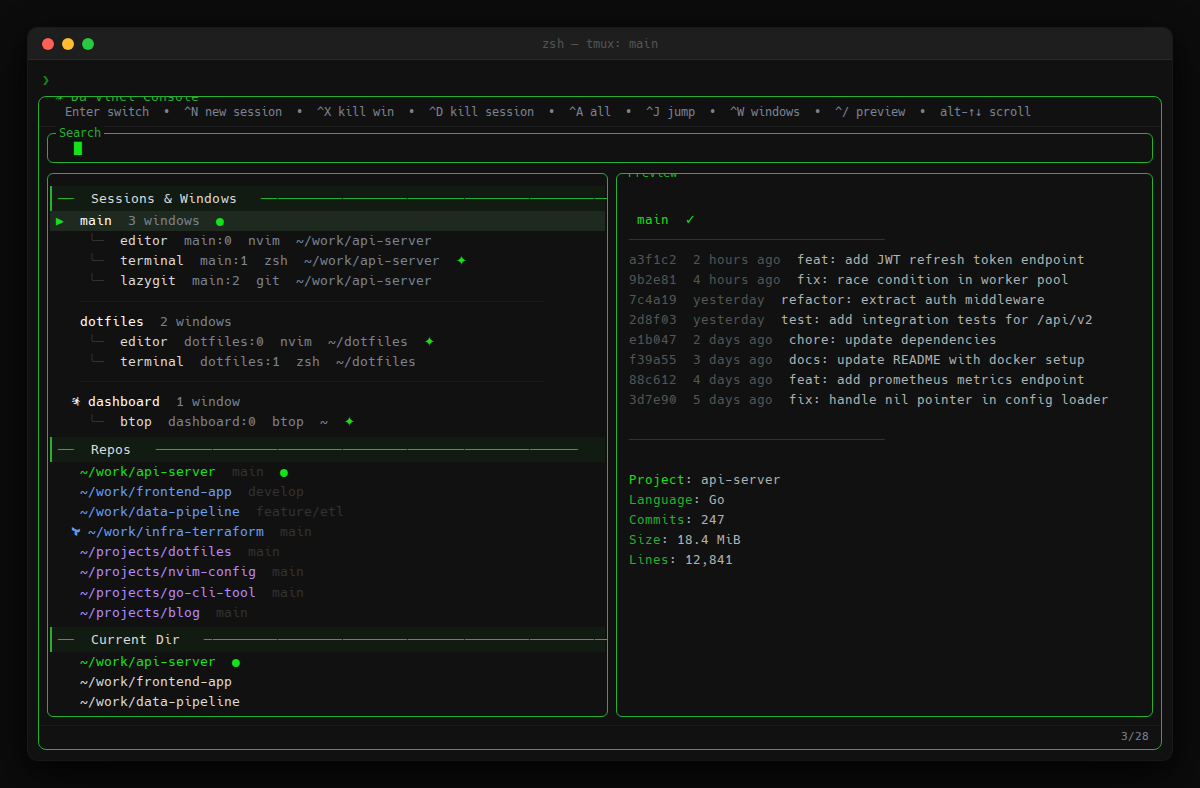
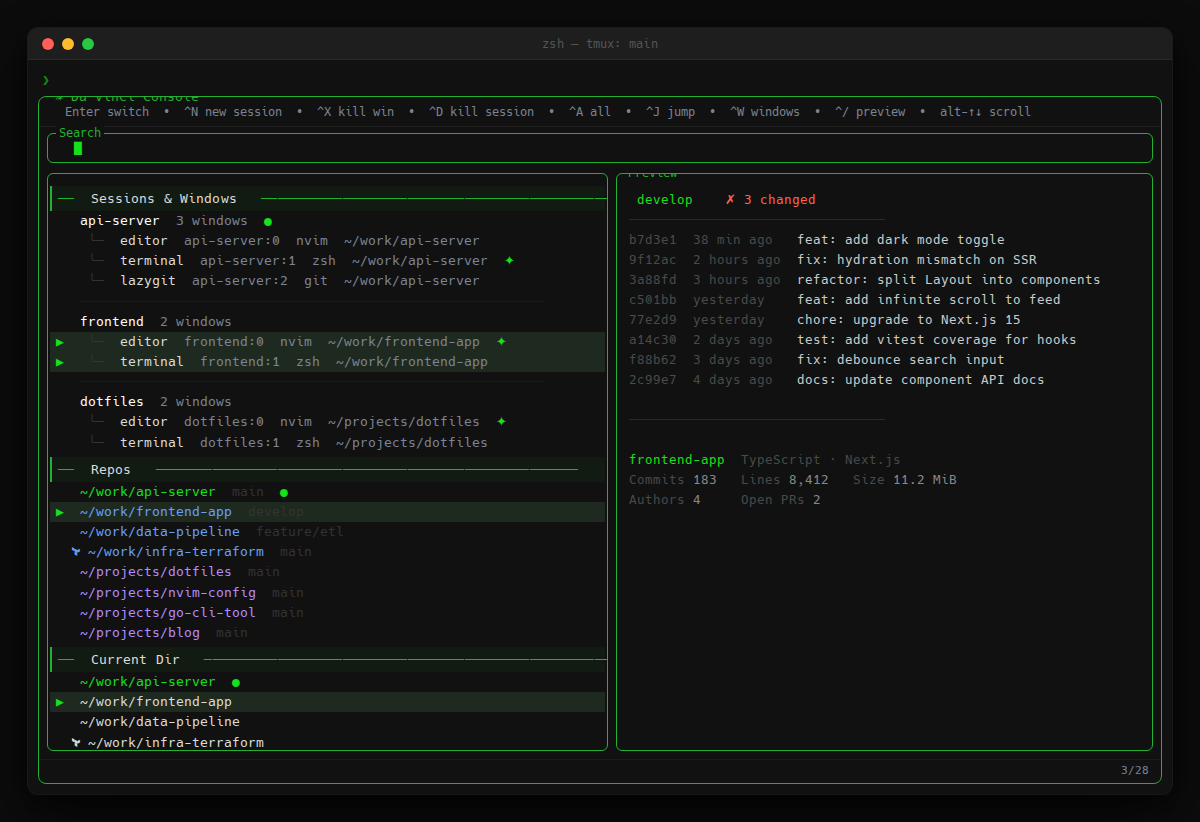
docs: overhaul README and refresh screenshot
- Remove undocumented DVC_COLOR_* theming vars (not implemented in script)
- Clarify auto-scan exclusions, SESH_WORK_DIRS fish syntax, icon_for notes
- Tighten prose throughout
- Screenshot: terminal chrome, frontend-app selected row, dirty branch
  preview with onefetch-style stats panel

diff --git a/README.md b/README.md
@@ -1,6 +1,6 @@
 #  Da Vinci Console
 
-A tmux session + window picker built on [sesh](https://github.com/joshmedeski/sesh) and [fzf](https://github.com/junegunn/fzf) — three sections in one view: live sessions & windows, auto-discovered git repos, and current directory. Git previews, smart dedup, language icons, and one-key project jumping.
+A tmux session + window picker built on [sesh](https://github.com/joshmedeski/sesh) and [fzf](https://github.com/junegunn/fzf) — three sections in one unified view: live sessions & windows, auto-discovered git repos, and current directory. No mode switching, no extra keybinds — just one popup that shows everything.
 
 ![Da Vinci Console screenshot](assets/screenshot.png)
 
@@ -8,20 +8,20 @@ A tmux session + window picker built on [sesh](https://github.com/joshmedeski/se
 
 ## Features
 
-- **Three-section unified view** — Sessions & Windows, Repos, and Current Dir all visible at once, no mode switching needed
-- **Auto-discovered repos** — scans `~/` for git repos automatically; pin specific dirs via `SESH_REPO_DIRS`
+- **Three-section unified view** — Sessions & Windows, Repos, and Current Dir all visible at once
+- **Auto-discovered repos** — scans `~/` up to 3 levels deep for git repos automatically; pin specific dirs via `SESH_REPO_DIRS`
 - **Git branch inline** — current branch shown next to every repo entry
 - **Language icons** — detects Rust, Node, Go, Python, PHP, Java, Ruby, C++ by manifest file
 - **Color-coded repos** — work dirs (blue) vs personal dirs (purple), configurable via `SESH_WORK_DIRS`
-- **Smart dedup** — repos already open as sessions show `●` in green and switch directly to the existing session
-- **Git preview** — branch, dirty status, last 8 commits, and onefetch stats in the preview pane
-- **Live pane previews** — see the last 20 lines of any session or window without switching
-- **`Ctrl-N` new session** — create a named tmux session at any repo path and jump straight to it
+- **Smart dedup** — repos already open as sessions show `●` in green and switch directly to the existing session instead of opening a duplicate
+- **Git preview** — branch, dirty status, last 8 commits, and optional onefetch stats in the preview pane
+- **Live pane previews** — see the last 20 lines of any active session or window without switching to it
+- **`Ctrl-N` new session** — create a named tmux session at the selected repo path and jump straight to it
 - **`Ctrl-X` kill window** — kill individual windows without leaving the picker
 - **`Ctrl-D` kill session** — delete sessions on the fly
 - **Jump mode** (`Ctrl-J`) — sesh configured dirs + zoxide frecency, split into labelled sections
 - **Windows view** (`Ctrl-W`) — all windows across all sessions grouped by session
-- **Shell-aware installer** — detects bash/zsh/fish and shows the right config syntax
+- **Shell-aware installer** — detects bash/zsh/fish and shows the right config snippet
 - **Nerd Font icons** — matched by session name, window name, and running command
 
 ---
@@ -38,7 +38,7 @@ A tmux session + window picker built on [sesh](https://github.com/joshmedeski/se
 
 **Optional:** [onefetch](https://github.com/o2sh/onefetch) — adds rich repo stats to the git preview pane.
 
-> **fzf 0.58+ is required.** The bordered input/list/preview panel labels were introduced in that release. Earlier versions will error.
+> **fzf 0.58+ is required.** Bordered input/list/preview panel labels were introduced in that release. Earlier versions will error.
 
 ---
 
@@ -50,7 +50,7 @@ cd Da_Vinci_Console
 ./install.sh
 ```
 
-The installer detects your shell (bash/zsh/fish), shows the correct tmux bind snippet, and checks all dependencies.
+The installer copies `da-vinci-console.sh` to `~/.config/tmux/sesh_picker.sh`, detects your shell (bash/zsh/fish), shows the correct env snippet, and checks all dependencies.
 
 ---
 
@@ -88,9 +88,9 @@ Or see [`extras/tmux.conf`](extras/tmux.conf) for the full snippet. Invoke with 
 
 ### Repo directories
 
-Without any config, the picker auto-scans `~/` up to 3 levels deep for git repos, skipping hidden dirs, `node_modules`, `.venv`, `vendor`, `target`, etc.
+Without any config the picker auto-scans `~/` up to 3 levels deep for git repos, skipping hidden dirs, `node_modules`, `.venv`, `vendor`, `target`, `__pycache__`, `dist`, and `build`.
 
-To pin specific directories (faster, explicit):
+To pin specific directories (faster, more explicit):
 
 ```bash
 # bash / zsh — add to ~/.bashrc or ~/.zshrc
@@ -100,56 +100,38 @@ export SESH_REPO_DIRS="~/DEVELOPMENT:~/work:~/personal"
 set -gx SESH_REPO_DIRS "$HOME/DEVELOPMENT:$HOME/work:$HOME/personal"
 ```
 
+Multiple paths are colon-separated. Tilde is expanded automatically.
+
 ### Work vs personal colour
 
-Repos under work dirs render in blue; everything else in purple. Default work dir is `~/DEVELOPMENT`.
+Repos found under work dirs render in **blue**; everything else renders in **purple**. The default work dir is `~/DEVELOPMENT`.
 
 ```bash
+# bash / zsh
 export SESH_WORK_DIRS="~/DEVELOPMENT:~/client-work"
-```
 
-### Theming
-
-| Variable           | Default              | Description                           |
-| ------------------ | -------------------- | ------------------------------------- |
-| `DVC_COLOR_ACTIVE` | `#14E21A`            | Active indicator, highlights, pointer |
-| `DVC_COLOR_BORDER` | `#24b030`            | Border and label colour               |
-| `DVC_COLOR_DIM`    | `#333333`            | Dim separator lines                   |
-| `DVC_TITLE`        | ` Da Vinci Console` | Border label text                     |
-
-#### Catppuccin Mocha
-
-```bash
-export DVC_COLOR_ACTIVE="#a6e3a1"
-export DVC_COLOR_BORDER="#89b4fa"
-export DVC_COLOR_DIM="#45475a"
-export DVC_TITLE=" Da Vinci Console"
-```
-
-#### Tokyo Night
-
-```bash
-export DVC_COLOR_ACTIVE="#9ece6a"
-export DVC_COLOR_BORDER="#7aa2f7"
-export DVC_COLOR_DIM="#3b4261"
-export DVC_TITLE=" Da Vinci Console"
+# fish
+set -gx SESH_WORK_DIRS "$HOME/DEVELOPMENT:$HOME/client-work"
 ```
 
 ---
 
 ## Adding Icons
 
-Icons are matched in `icon_for()`. Edit `da-vinci-console.sh` to add your own:
+Icons are matched in `icon_for()` by session name, window name, or running command. Edit `da-vinci-console.sh` to add your own:
 
 ```bash
 icon_for() {
     local n="${1,,}"; n="${n##*/}"
     case "$n" in
         myproject*) echo "" ;;  # add your own here
+        claude*)    echo "" ;;
         # ...
     esac
 }
 ```
+
+The function is called three times per row — for the session name, the window name, and the current pane command — so a single match entry covers all three.
 
 ---
 
